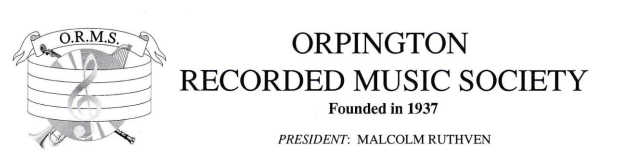
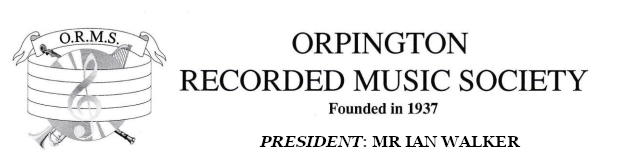
New programmes. FindingSocieties changes.
New programmes for Orpington, Northampton and Carnoustie.
Removed Rochdale, now closed.
Modified Orpington header image with new president's name.
FindingSocieties:
Moved Huddersfield from Yorkshire to North-West.
Added Preston to North-West, CSS-ified the page and tidied it.

Changed region(s): [[0.3946, 0.7927, 0.8498, 0.9146]]

diff --git a/FindingSocieties/north west.htm b/FindingSocieties/north west.htm
@@ -1,108 +1,112 @@
+<!DOCTYPE html>
 <html>
 <head>
 <title>North West</title>
-<meta http-equiv="Content-Type" content="text/html; charset=iso-8859-1">
+<meta http-equiv="Content-Type" content="text/html; charset=UTF-8">
+<meta name="Author" content="FRMS">
 <link rel="icon" type="image/x-icon" href="/images/favicon3.png">
+<style>
+  body {background-color: #99FFFF;
+        color: black;
+        font-family: Geneva, Arial, Helvetica, Verdana, sans-serif;
+        font-size: 16px;
+        font-weight: bold;
+       }
+  .s4 {font-size: 18px;}
+  .s5 {font-size: 24px;}
+  a:link, a:visited {color: #990000;}
+  tr {vertical-align: top;}
+  td,th {padding: 5px;}
+  th {text-align: center;
+      font-style: italic;}
+  td:first-child {width: 40%;}
+  table, td, th {border-color: #999999; border-collapse: collapse; border-width: 2px; border-style: ridge;}
+</style>
 </head>
 
-<body bgcolor="#99FFFF" text="#000000" link="#990000" vlink="#990000" alink="#990000">
-<p align="center"><font face="Geneva, Arial, Helvetica, san-serif" size="5"><b>FRMS 
-  Societies in the North West</b></font></p>
-<p align="center"><b><font face="Geneva, Arial, Helvetica, san-serif" size="5">If 
-  the society has a website just click on the society name. <br>
-  Otherwise use the information in the right hand column</font></b></p>
-<table width="75%" border="1" align="center">
-  <tr valign="top"> 
-    <td width="42%"> 
-      <div align="center"><font face="Geneva, Arial, Helvetica, san-serif" color="#000000"><b><font size="3">Society</font></b></font></div>
+<body>
+<h1 class="s5" align="center">FRMS Societies in the North West</h1>
+<p class="s4"  align="center">If the society has a website just click on the society name.<br>
+  Otherwise use the information in the right hand column</p>
+<table width="75%" align="center">
+  <tr> 
+    <th> 
+      Society
+    </th>
+    <th> 
+      How to contact
+    </th>
+  </tr>
+  <tr> 
+    <td> 
+      Barrow Classical Music Society
     </td>
-    <td width="58%"> 
-      <div align="center"><font color="#000000"><b><font face="Geneva, Arial, Helvetica, san-serif" size="3">How 
-        to contact</font></b></font></div>
+    <td> 
+      <a href="mailto:secretary@thefrms.co.uk">secretary@thefrms.co.uk</a>
     </td>
   </tr>
-  <tr valign="top"> 
-    <td width="42%"> 
-      <div align="center"><font color="#000000"><b><font size="3" face="Geneva, Arial, Helvetica, san-serif">Barrow 
-        Classical Music Society</font></b></font></div>
+  <tr> 
+    <td> 
+      <a href="http://thefrms.co.uk/affprogs/blackpool.htm">Blackpool &amp; Fylde RMS</a>
     </td>
-    <td width="58%"> 
-      <div align="center"><b><font face="Geneva, Arial, Helvetica, san-serif" size="3" color="#CC0000"><font color="#000000"></font></font></b></div>
-    </td>
-  </tr>
-  <tr valign="top"> 
-    <td width="42%" height="38"> 
-      <div align="center"><font face="Geneva, Arial, Helvetica, san-serif" color="#000000"><b><font size="3"><a href="http://thefrms.co.uk/affprogs/blackpool.htm">Blackpool 
-        &amp; Fylde RMS</a></font></b></font></div>
-    </td>
-    <td width="58%" height="38"> 
-      <div align="center"><font color="#000000"><b><font face="Geneva, Arial, Helvetica, san-serif" size="3">http://thefrms.co.uk/affprogs/blackpool.htm</font></b></font></div>
+    <td> 
+      <div>http://thefrms.co.uk/affprogs/blackpool.htm</div>
     </td>
   </tr>
-  <tr valign="top"> 
-    <td width="42%"> 
-      <div align="center"><font face="Geneva, Arial, Helvetica, san-serif" color="#000000"><b><font size="3">CLPGS 
-        Northern Region Group</font></b></font></div>
+  <tr> 
+    <td> 
+      <div>CLPGS Northern Region Group</div>
     </td>
-    <td width="58%"> 
-      <div align="center"><b><font face="Geneva, Arial, Helvetica, san-serif" size="3" color="#CC0000"><font face="Geneva, Arial, Helvetica, san-serif"><font face="Geneva, Arial, Helvetica, san-serif"><font size="3"><font size="3"><font color="#CC0000"><b><font color="#000000">CH 
-        Bownden, <a href="mailto:chbowden365@outlook.com">Email</a></font></b></font></font></font></font></font></font></b></div>
+    <td> 
+      <div>CH Bownden <a href="mailto:chbowden365@outlook.com">chbowden365@outlook.com</a></div>
     </td>
   </tr>
-  <tr valign="top"> 
-    <td width="42%"> 
-      <div align="center"><font face="Geneva, Arial, Helvetica, san-serif" color="#000000"><b><font size="3">Morecambe 
-        &amp; Heysham RMS</font></b></font></div>
+  <tr> 
+    <td> 
+      <div>Kendal</div>
     </td>
-    <td width="58%"> 
-      <div align="center"><b><font face="Geneva, Arial, Helvetica, san-serif" size="3" color="#CC0000"><font face="Geneva, Arial, Helvetica, san-serif"><font face="Geneva, Arial, Helvetica, san-serif"><font size="3"><font size="3"><font color="#CC0000"><b><font color="#000000">G 
-        Arkwright Tel:01524 421537</font></b></font></font></font></font></font></font></b></div>
+    <td><a href="mailto:secretary@thefrms.co.uk">secretary@thefrms.co.uk</a></td>
+  </tr>  <tr> 
+    <td> 
+      <div>Morecambe &amp; Heysham RMS</div>
     </td>
-  </tr>
-  <tr valign="top"> 
-    <td width="42%"> 
-      <div align="center"><font face="Geneva, Arial, Helvetica, san-serif" color="#000000"><b><font size="3"><a href="http://thefrms.co.uk/affprogs/ramsbottomrms.htm">Ramsbottom 
-        RMS </a></font></b></font></div>
-    </td>
-    <td width="58%"> 
-      <div align="center"><font color="#000000"><b><font face="Geneva, Arial, Helvetica, san-serif" size="3">http://thefrms.co.uk/affprogs/ramsbottomrms.htm</font></b></font></div>
+    <td> 
+      <div>G Arkwright Tel:01524 421537</div>
     </td>
   </tr>
-  <tr valign="top"> 
-    <td width="42%"> 
-      <div align="center"><font face="Geneva, Arial, Helvetica, san-serif" color="#000000"><b><font size="3"><a href="http://thefrms.co.uk/affprogs/rochgs.htm">Rochdale 
-        Gramophone Society</a></font></b></font></div>
+  <tr> 
+    <td> 
+      <div><a href="http://thefrms.co.uk/affprogs/preston.html">Preston RMS </a></div>
     </td>
-    <td width="58%"> 
-      <div align="center"><font color="#000000"><b><font face="Geneva, Arial, Helvetica, san-serif" size="3">http://thefrms.co.uk/affprogs/rochgs.htm</font></b></font></div>
-    </td>
-  </tr>
-  <tr valign="top"> 
-    <td width="42%"> 
-      <div align="center"><font color="#000000"><b><font size="3" face="Geneva, Arial, Helvetica, san-serif">Ulverston 
-        Gramophone Society</font></b></font></div>
-    </td>
-    <td width="58%"> 
-      <div align="center"><b><font face="Geneva, Arial, Helvetica, san-serif" size="3" color="#CC0000"><font color="#000000"></font></font></b></div>
+    <td> 
+      <div>http://thefrms.co.uk/affprogs/preston.html</div>
     </td>
   </tr>
-  <tr valign="top"> 
-    <td width="42%"> 
-      <div align="center"><font face="Geneva, Arial, Helvetica, san-serif" size="3"><b>Kendal</b></font></div>
+  <tr> 
+    <td> 
+      <div><a href="http://thefrms.co.uk/affprogs/ramsbottomrms.htm">Ramsbottom RMS </a></div>
     </td>
-    <td width="58%">&nbsp;</td>
+    <td> 
+      <div>http://thefrms.co.uk/affprogs/ramsbottomrms.htm</div>
+    </td>
   </tr>
-  <tr valign="top"> 
-    <td width="42%"> 
-      <div align="center"><b><font face="Geneva, Arial, Helvetica, san-serif" size="3"><a href="https://www.open-lectures.co.uk/Composer-Societies-Trusts/8194-Wagner-Society-Manchester/View-details.html">Wagner 
-        Society of Manchester</a></font></b></div>
+  <tr> 
+    <td> 
+      <div>Ulverston Gramophone Society</div>
     </td>
-    <td width="58%"> 
-      <div align="center"><b><font face="Geneva, Arial, Helvetica, san-serif" size="3">https://www.open-lectures.co.uk/Composer-Societies-Trusts/8194-Wagner-Society-Manchester/View-details.html</font></b></div>
+    <td> 
+      <a href="mailto:secretary@thefrms.co.uk">secretary@thefrms.co.uk</a>
+    </td>
+  </tr>
+  <tr> 
+    <td> 
+      <div><a href="https://www.open-lectures.co.uk/Composer-Societies-Trusts/8194-Wagner-Society-Manchester/View-details.html">Wagner Society of Manchester</a></div>
+    </td>
+    <td> 
+      <div>https://www.open-lectures.co.uk/Composer-Societies-Trusts/8194-Wagner-Society-Manchester/View-details.html</div>
     </td>
   </tr>
 </table>
-<p align="center"><font face="Geneva, Arial, Helvetica, san-serif" size="3" color="#990000"><b><a href="../index.htm">Return 
-  to Home Page</a></b></font></p>
+<p align="center"><a href="../index.htm">Return to Home Page</a></p>
 </body>
 </html>

diff --git a/affprogs/carnoustierms.htm b/affprogs/carnoustierms.htm
@@ -54,9 +54,11 @@
   td {
       font-size: 18px;
       padding: 5px;
+      vertical-align: top;
   }
   td:nth-child(even) {
       color: #990000;
+      width: 50%;
   }
   .border {
       border: 1px solid;
@@ -78,10 +80,10 @@
   <img class="centre border"src="../images/carnoustie3.jpg" height="170">
 
   <br>
-  <p>Carnoustie Recorded Music meet in the</p>
-  <p><span>Newton Hall, Newton Panbride Church, Arbroath Road, Carnoustie, Angus DD7 6BL.</span> 
+  <p>Carnoustie Recorded Music meet in</p>
+  <p><span>The Newton Hall, Newton Panbride Church, Arbroath Road, Carnoustie, Angus DD7 6BL.</span> 
   </p>
-  <p>Meetings begin at 7 pm, ending around 9 pm. Temporary Membership &pound;3.50. <br>
+  <p>Meetings begin at 7 pm, ending around 9 pm. Temporary Membership &pound;5.<br>
     Meetings take the form of musically illustrated talks.
   </p>
   <p>Guests are always assured of a warm welcome. <br>
@@ -90,31 +92,66 @@
   </p>
 
   <table>
-    <caption>SEASON 2024&ndash;2025</caption>
-    <tr><td>2024</td>
+    <caption>SEASON 2025&ndash;2026</caption>
+    <tr>
+      <td>2025</td>
+      <td></td>
+      <td></td>
     </tr>
-    <tr><td>20 September</td> <td>Around Opera</td><td> David Duncan</td>
+    <tr>
     </tr>
-    <tr><td>18 October</td> <td>Anton Bruckner (1824 – 1896)</td> <td>Graham Young</td>
+    <tr>
+      <td>19 September</td>
+      <td>Maurice Ravel (1875&ndash;1937)</td>
+      <td>Graham Young</td>
     </tr>
-    <tr><td>15 November</td> <td>Anniversaries</td> <td>Cath and John Maidment</td>
+    <tr>
+      <td>17 October</td>
+      <td>Anniversaries</td>
+      <td>Cath and John Maidment</td>
     </tr>
-    <tr><td>20 December</td> <td>Christmas Celebration</td><td></td>
+    <tr>
+      <td>7 November</td>
+      <td>Joint meeting with Friends of the Caird Hall Organ, Dundee. Viewing of Harold Lloyd’s 1926 film <em>For Heaven’s Sake!</em> with organ accompaniment</td>
     </tr>
-    <tr><td></td>
-    <tr><td>2025</td>
+    <tr>
+      <td>15 December</td>
+      <td> Christmas Programme</td>
+      <td></td>
     </tr>
-    <tr><td>17 January</td> <td>‘But not Landowski' : the harpsichord on 78s</td> <td>Peter Adamson</td>
+    <tr>
+      <td>2026</td>
+      <td></td>
+      <td></td>
     </tr>
-    <tr><td>21 February</td> <td>Hector Berlioz (1801 – 1869)</td> <td>John Maidment</td>
+    <tr>
+      <td>16 January</td>
+      <td>Victorian and Edwardian Music Hall</td>
+      <td>John Maidment</td>
     </tr>
-    <tr><td>21 March</td> <td>Twos and Threes</td><td> Derek Buchan</td>
+    <tr>
+      <td>20 February</td>
+      <td>A Touch of Brass</td>
+      <td>Derek Buchan</td>
     </tr>
-    <tr><td>18 April</td> <td>Jazz Night</td><td> Richard Irvine</td>
+    <tr>
+      <td>20 March</td>
+      <td>Bach and Sons</td>
+      <td>Andrew Mowat</td>
+    </tr>
+    <tr>
+      <td>17 April</td>
+      <td>Jazz Night</td>
+      <td>Richard Irvine</td>
+    </tr>
+    <tr>
+      <td>1 May</td>
+      <td>Old records, new music</td>
+      <td>Peter Adamson</td>
     </tr>
   </table>
 
-  <p>Click <a href="Carnoustie 2024 - 2025.pdf">here</a> to download a PDF of the programme which you can save or print.</p>
+  <p>Click <a href="Carnoustie 2025 - 2026.pdf">here</a> to download a PDF of the programme which you can save or print.</p>
 
   <aside>
     <p><a href="mailto:website-manager@thefrms.co.uk">Website Manager</a></p>

diff --git a/affprogs/orpingtonrms.htm b/affprogs/orpingtonrms.htm
@@ -17,16 +17,16 @@
   </head>
   <body>
     <p>&nbsp;</p>
-    <img class="centre" src="Orpington%20header.png" width="649" height="223" border="0">
+    <img class="centre" src="Orpington header.png" width="649" height="223" border="0">
     <p class="s4">REGULAR MEETINGS TAKE PLACE AT<br>
       <a href="https://www.google.co.uk/maps/place/13%2BIrene%2BRd,%2BOrpington%2BBR6%2B0HA/@51.379823,0.0956878,17z/data=!4m6!3m5!1s0x47d8ac82e8cd24cb:0xff43848dd0819189!8m2!3d51.3800962!4d0.0955002!16s%2Fg%2F11b8txs0_h?hl=en&entry=ttu">13 IRENE ROAD</a>, ORPINGTON, KENT, BR6 0HA<br>
-      WITH PROGRAMMES COMMENCING AT 2.00 PM.<br>
+      WITH PROGRAMMES COMMENCING AT 2.00 PM.<br><br>
       FURTHER DETAILS ARE AVAILABLE FROM<br>
-      orpingtonrms@gmail.com or 0208 300 0265/01689 81025<br>
+      Email: <a href="mailto:orpingtonrms@gmail.com">orpingtonrms@gmail.com</a> Tel: 0208 300 0265 or 01689 826698<br>
     </p>
     <p  class="s6">Click
-      <a href="ORMS 2025 Part 1 - Second Revision.pdf">here</a>
-      for Programme January to June 2025</p>
+      <a href="ORMS 2025 - 2nd half.pdf">here</a>
+      for Programme July to December 2025</p>
 
     <aside>
       <p><a href="mailto:WebMaster@thefrms.co.uk">Website Manager</a></p>

diff --git a/affprogs/northamptonrms.htm b/affprogs/northamptonrms.htm
@@ -73,16 +73,19 @@
             <p> Our society exists to enable music lovers to share their love of
               music with others of a like mind.
               Our meetings always include an interval when it is possible to discuss
-              and exchange views on music, recordings and equipment, over some light
+              and exchange views on music, recordings and equipment over some light
               refreshments.</p>
             <p class="red">Members pay an annual subscription of &pound;7.50 and a fee of &pound;2 per 
               evening, which includes refreshments. Visitors pay an attendance fee 
               of &pound;2.50.</p>
-            <p>Meetings on alternate Mondays at 1:30pm, in </p>
+            <p>Meetings are usually the second Monday of each month at 1:30pm, in </p>
             <p>Friends Meeting House<br>
               Wellington Street<br>
               Northampton</p>
-          </td>
+            <p>Contact: <span class="red">Jean Ridley</span> Tel: 07982 753486 or Email:
+              <a href="mailto:jeanivr4@gmail.com">jeanivr4@gmail.com</a>
+            </p>
+          </td>          
         </tr>
       </table>
     </div>

diff --git a/FindingSocieties/yorkshire.htm b/FindingSocieties/yorkshire.htm
@@ -26,11 +26,6 @@
     <td><b><font face="Geneva, Arial, Helvetica, san-serif" size="3" color="#000099">http://thefrms.co.uk/affprogs/barnsley.htm</font></b></td>
   </tr>
   <tr> 
-    <td><b><a href="http://thefrms.co.uk/affprogs/hudd.htm"><font face="Geneva, Arial, Helvetica, san-serif" size="3" color="#990000">Huddersfield 
-      RMS</font></a></b></td>
-    <td><b><font face="Geneva, Arial, Helvetica, san-serif" size="3" color="#000099">http://thefrms.co.uk/affprogs/hudd.htm</font></b></td>
-  </tr>
-  <tr> 
     <td><b><a href="http://wharfedalerecordedmusic.ilkley.org/"><font face="Geneva, Arial, Helvetica, san-serif" size="3" color="#990000">Wharfedale 
       RM</font></a></b></td>
     <td><b><font face="Geneva, Arial, Helvetica, san-serif" size="3" color="#000099">http://wharfedalerecordedmusic.ilkley.org/</font></b></td>

diff --git a/affprogs/afflinks.htm b/affprogs/afflinks.htm
@@ -50,7 +50,6 @@
       <a href="http://www.gtyarmouthrmc.co.uk/">Great Yarmouth RMC</a><br>
       <a href="harrowmc.htm">Harrow MC</a><br>
       <a href="hasle.htm"> Haslemere RMS</a><br>
-      <a href="hudd.htm">Huddersfield Society</a><br>
       <a href="http://www.leicester-music.org.uk">Leicester Music Society</a><br>
       <a href="letch.html">Letchworth RMS</a><br>
       <a href="http://www.lrms.dbilham.com/">Loughborough RMS</a><br>
